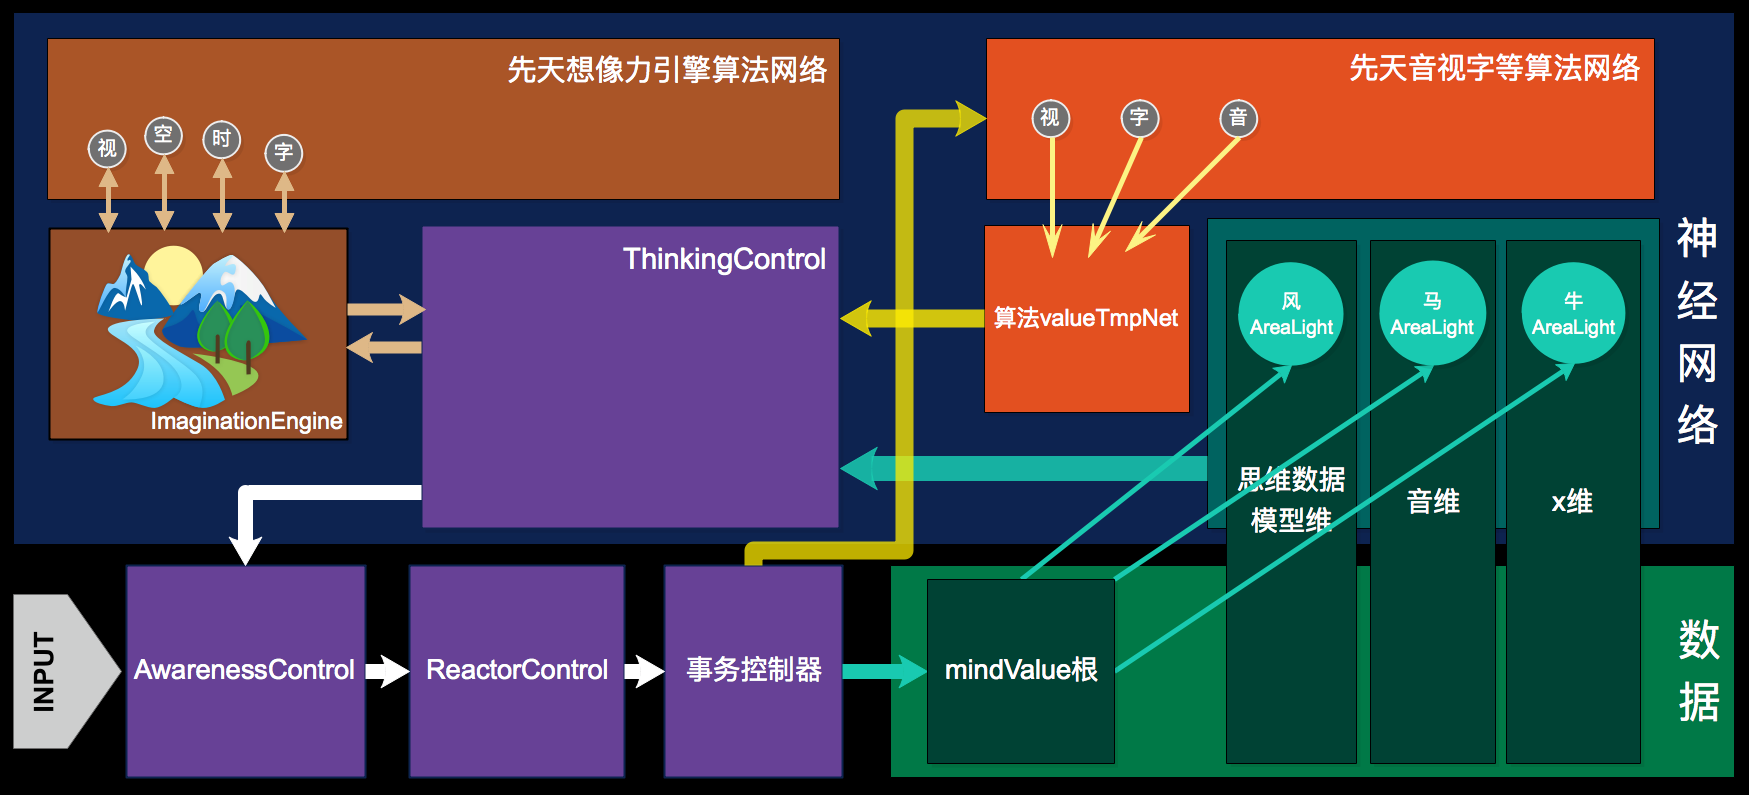
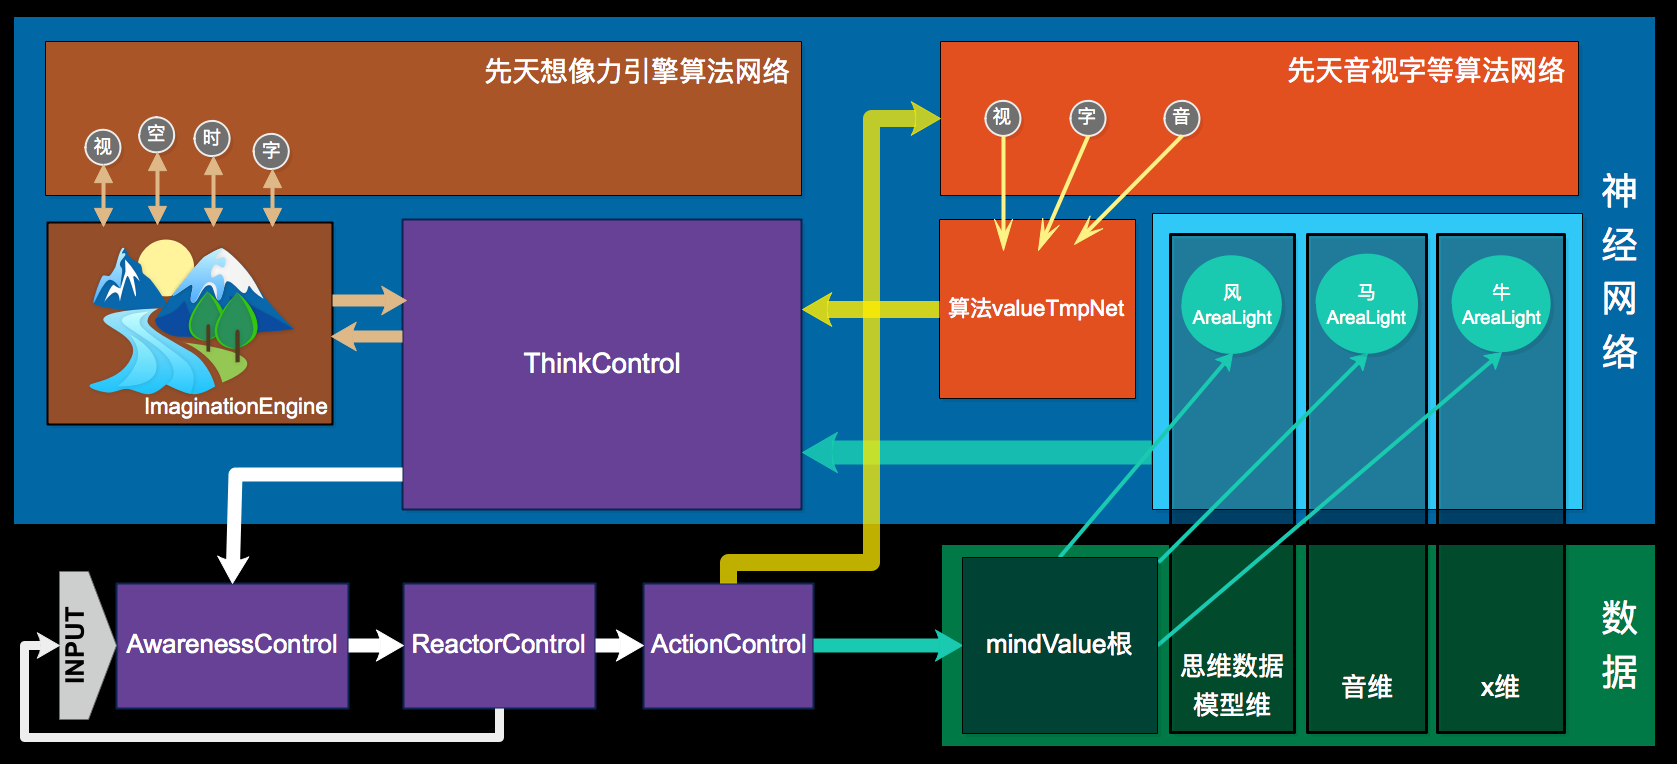
none

diff --git a/目录.md b/目录.md
@@ -6,7 +6,7 @@
 
 - ## 手写笔记
 
-  - [Note9](手写笔记/Note9.md)<font size="1" color="#888888"> 修改时间:12月08日 09:10:18</font>
+  - [Note9](手写笔记/Note9.md)<font size="1" color="#888888"> 修改时间:12月08日 09:35:26</font>
   - [Note8](手写笔记/Note8.md)<font size="1" color="#888888"> 修改时间:11月28日 08:44:21</font>
   - [Note7](手写笔记/Note7.md)<font size="1" color="#888888"> 修改时间:12月06日 08:21:21</font>
   - [Note6](手写笔记/Note6.md)<font size="1" color="#888888"> 修改时间:12月06日 08:20:35</font>
@@ -209,6 +209,7 @@
   * [INPUT_注意力](iphone备忘录/INPUT_注意力.md)<font size="1" color="#888888"> 修改时间:07月26日 13:17:10</font>
   * [行为与能力](iphone备忘录/行为与能力.md)<font size="1" color="#888888"> 修改时间:07月26日 13:19:43</font>
   * [为推动人工智能的发展所作的思考](iphone备忘录/为推动人工智能的发展所作的思考.md)<font size="1" color="#888888"> 修改时间:07月26日 13:27:34</font>
+
 
 
 

diff --git a/手写笔记/Note9.md b/手写笔记/Note9.md
@@ -443,6 +443,10 @@
 
 | ![](assets/18.png) |
 | --- |
+| Input循环 = 白色 + 黄色 + 橙色 |
+| 思维循环 = 白色 + 青色 + 绿色 |
+| 想像力循环 = 棕色 |
+| 控制器部分 = 紫色 |
 
 
 
